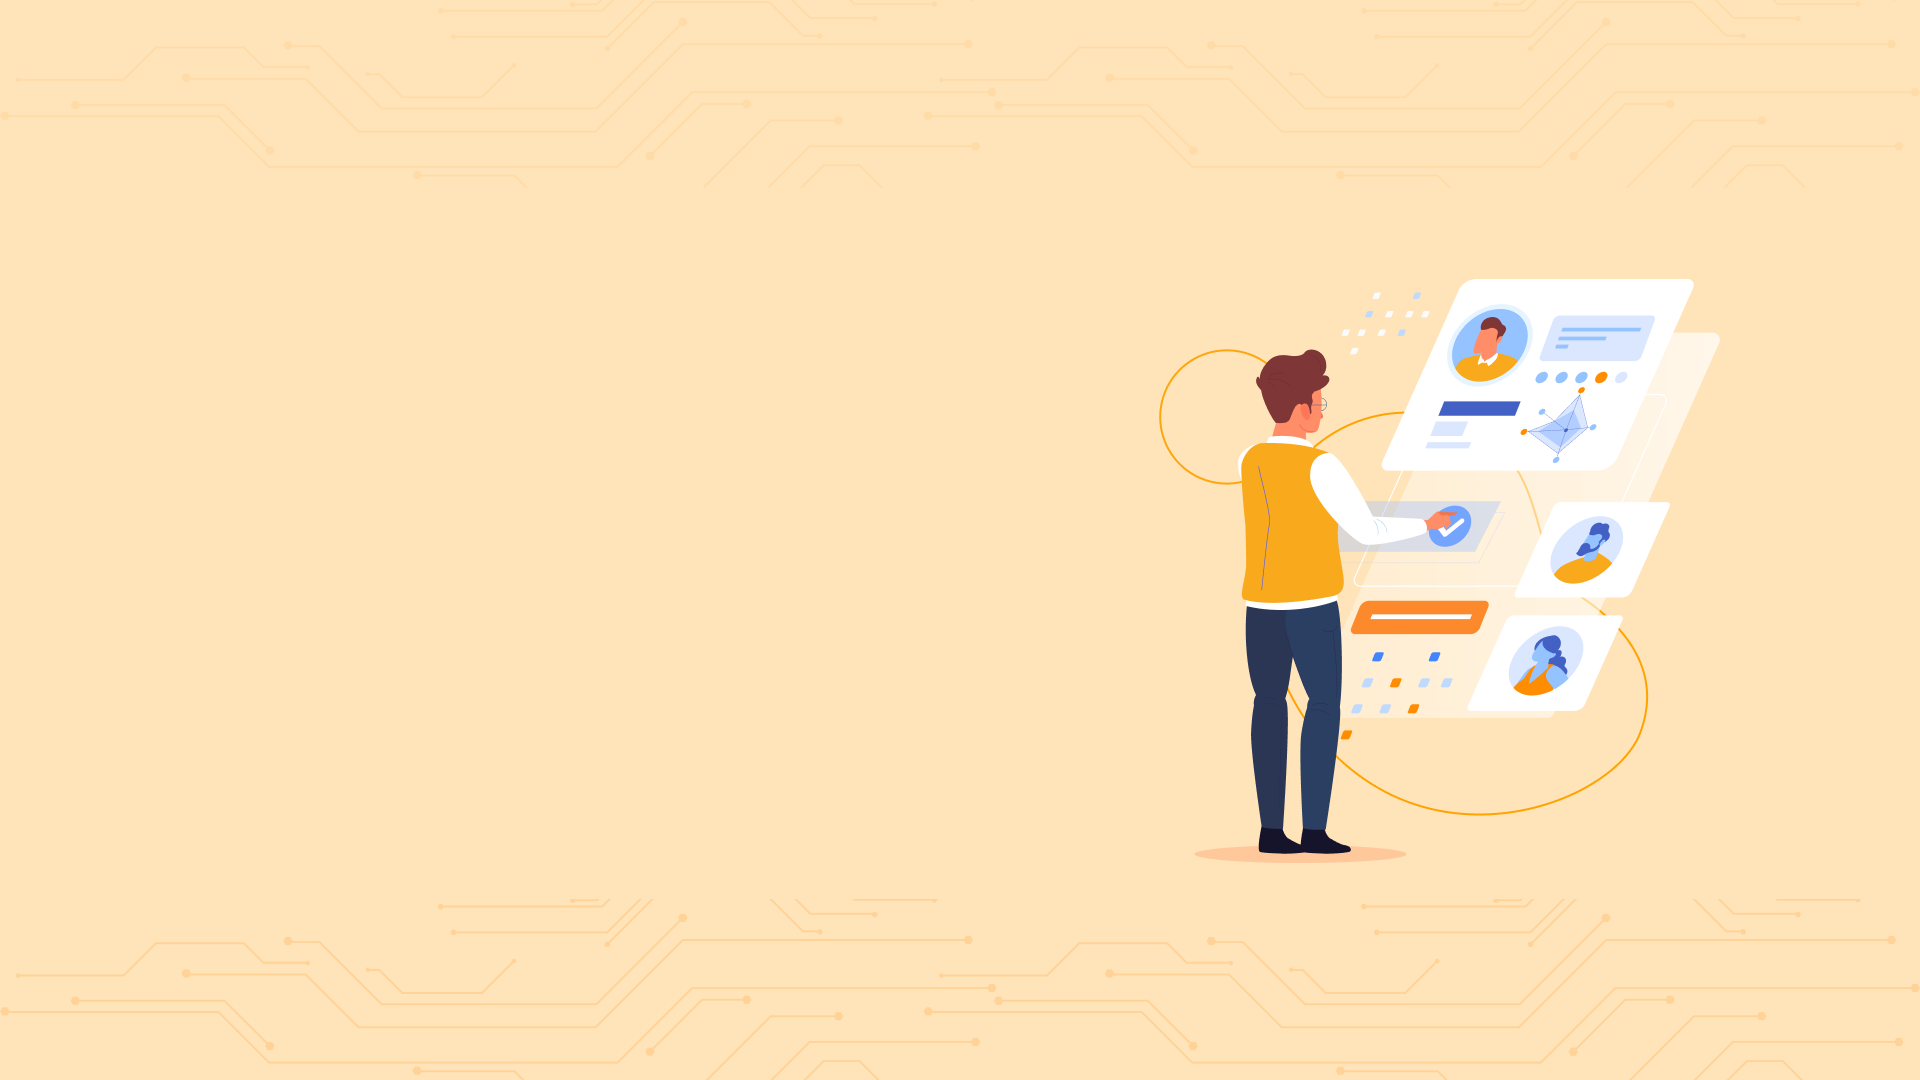
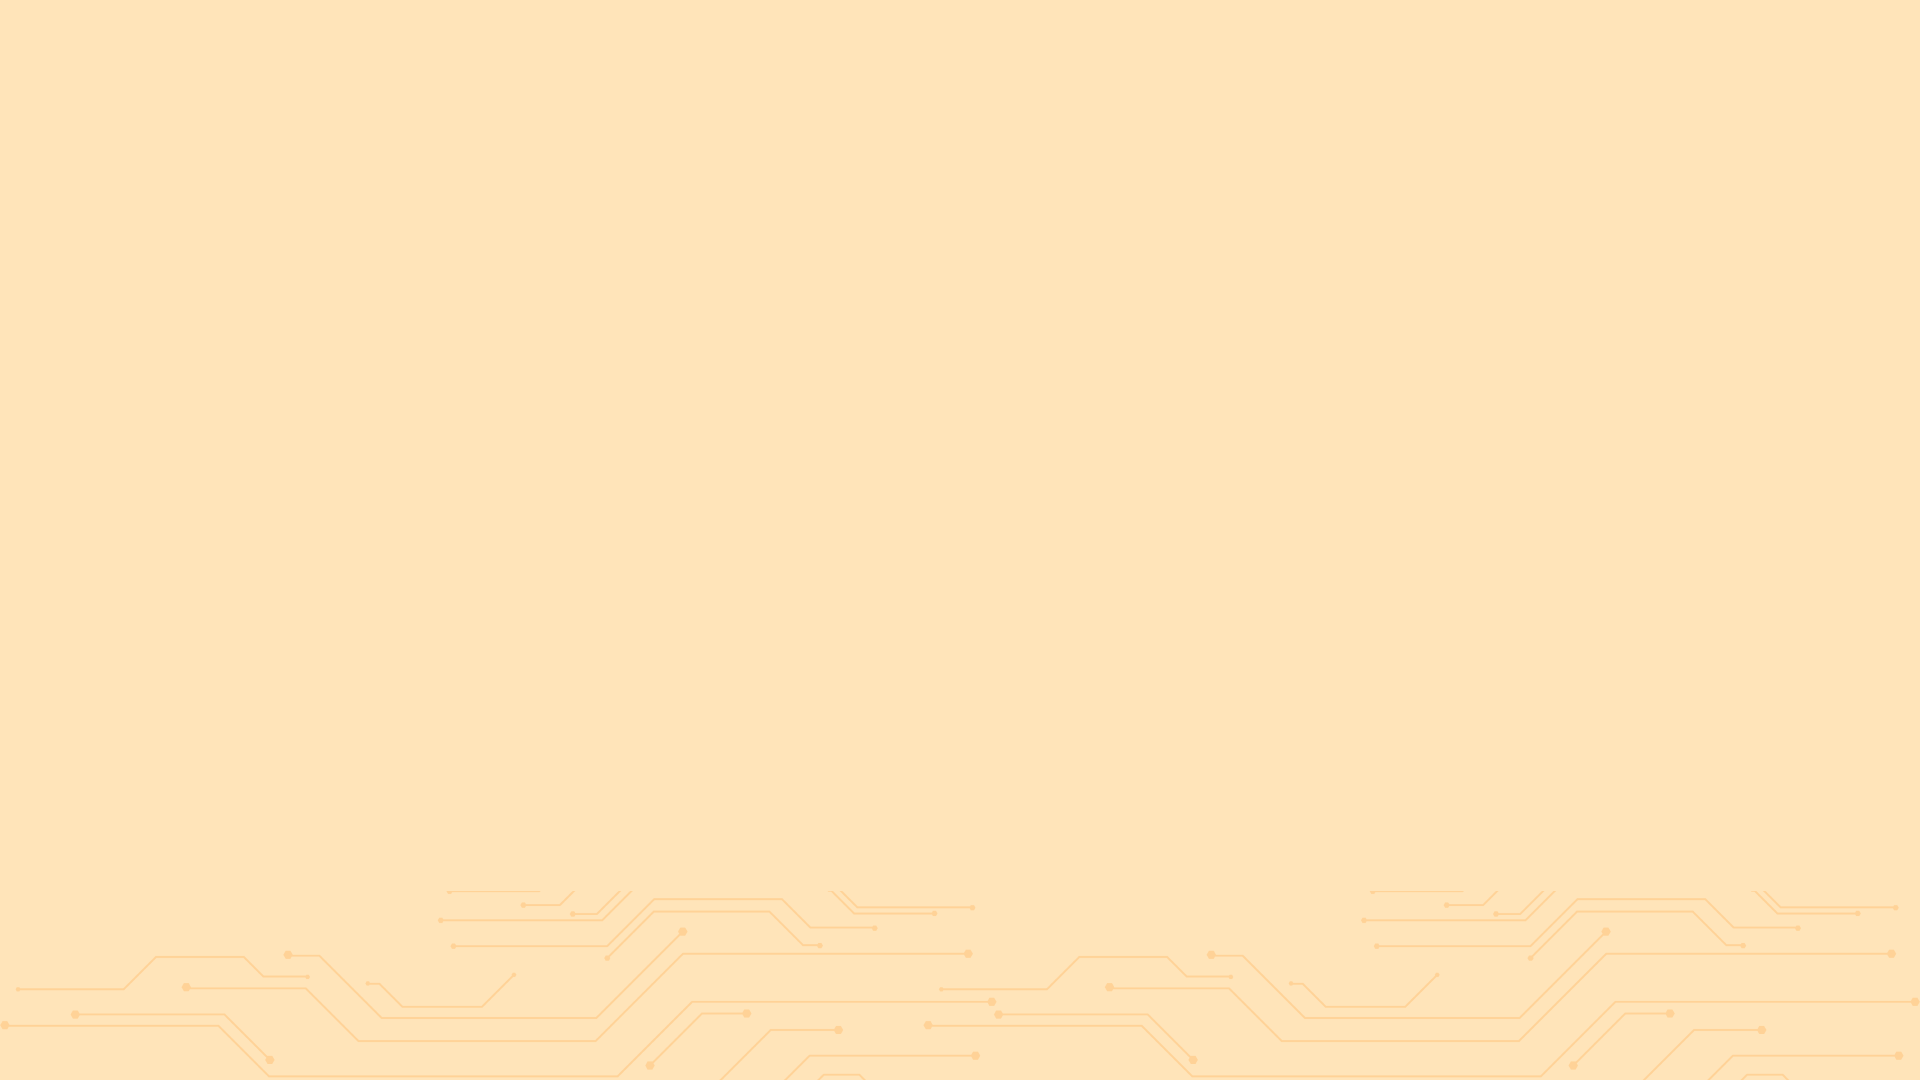
go

diff --git a/index.html b/index.html
@@ -15,7 +15,7 @@
   </head>
   <body>
     <header>
-      <div class="container-custom">
+      <div class="container">
         <div class="header-wrap">
           <div class="logo">
             <img src="./assets/img/logo.png" alt="" />
@@ -32,74 +32,86 @@
       </div>
     </header>
     <section id="hrm_body">
-      <div class="container-custom">
+      <div class="container">
         <div class="hrm-search">
           <input type="text" placeholder="Tìm kiếm ứng dụng" />
         </div>
-        <div class="hrm-module">
-          <div class="module-row">
-            <a href="">
-              <div class="module-box">
-                <img src="./assets/img/icon1.png" alt="" />
-                <div class="module-name">Hệ thống</div>
+        <div
+          style="display: flex; align-items: center; justify-content: center"
+          class="row"
+        >
+          <div class="col-lg-6">
+            <div class="content-left">
+              <div class="hrm-module">
+                <div class="module-row">
+                  <a href="">
+                    <div class="module-box">
+                      <img src="./assets/img/icon1.png" alt="" />
+                      <div class="module-name">Hệ thống</div>
+                    </div>
+                  </a>
+                  <a href="">
+                    <div class="module-box">
+                      <img src="./assets/img/icon2.png" alt="" />
+                      <div class="module-name">Thông tin nhân sự</div>
+                    </div>
+                  </a>
+                  <a href="">
+                    <div class="module-box">
+                      <img src="./assets/img/icon3.png" alt="" />
+                      <div class="module-name">Tiền lương</div>
+                    </div>
+                  </a>
+                  <a href="">
+                    <div class="module-box">
+                      <img src="./assets/img/icon4.png" alt="" />
+                      <div class="module-name">Nhân viên</div>
+                    </div>
+                  </a>
+                  <a href="">
+                    <div class="module-box">
+                      <img src="./assets/img/icon5.png" alt="" />
+                      <div class="module-name">Chấm công</div>
+                    </div>
+                  </a>
+                </div>
+                <div class="module-row">
+                  <a href="">
+                    <div class="module-box">
+                      <img src="./assets/img/icon6.png" alt="" />
+                      <div class="module-name">Hợp đồng</div>
+                    </div>
+                  </a>
+                  <a href="">
+                    <div class="module-box">
+                      <img src="./assets/img/icon7.png" alt="" />
+                      <div class="module-name">Bảo hiểm xã hội</div>
+                    </div>
+                  </a>
+                  <a href="">
+                    <div class="module-box">
+                      <img src="./assets/img/icon8.png" alt="" />
+                      <div class="module-name">Tuyển dụng</div>
+                    </div>
+                  </a>
+                  <a href="">
+                    <div class="module-box">
+                      <img src="./assets/img/icon9.png" alt="" />
+                      <div class="module-name">Đặt xe</div>
+                    </div>
+                  </a>
+                  <a href="">
+                    <div class="module-box">
+                      <img src="./assets/img/icon10.png" alt="" />
+                      <div class="module-name">Hướng dẫn</div>
+                    </div>
+                  </a>
+                </div>
               </div>
-            </a>
-            <a href="">
-              <div class="module-box">
-                <img src="./assets/img/icon2.png" alt="" />
-                <div class="module-name">Thông tin nhân sự</div>
-              </div>
-            </a>
-            <a href="">
-              <div class="module-box">
-                <img src="./assets/img/icon3.png" alt="" />
-                <div class="module-name">Tiền lương</div>
-              </div>
-            </a>
-            <a href="">
-              <div class="module-box">
-                <img src="./assets/img/icon4.png" alt="" />
-                <div class="module-name">Nhân viên</div>
-              </div>
-            </a>
-            <a href="">
-              <div class="module-box">
-                <img src="./assets/img/icon5.png" alt="" />
-                <div class="module-name">Chấm công</div>
-              </div>
-            </a>
+            </div>
           </div>
-          <div class="module-row">
-            <a href="">
-              <div class="module-box">
-                <img src="./assets/img/icon6.png" alt="" />
-                <div class="module-name">Hợp đồng</div>
-              </div>
-            </a>
-            <a href="">
-              <div class="module-box">
-                <img src="./assets/img/icon7.png" alt="" />
-                <div class="module-name">Bảo hiểm xã hội</div>
-              </div>
-            </a>
-            <a href="">
-              <div class="module-box">
-                <img src="./assets/img/icon8.png" alt="" />
-                <div class="module-name">Tuyển dụng</div>
-              </div>
-            </a>
-            <a href="">
-              <div class="module-box">
-                <img src="./assets/img/icon9.png" alt="" />
-                <div class="module-name">Đặt xe</div>
-              </div>
-            </a>
-            <a href="">
-              <div class="module-box">
-                <img src="./assets/img/icon10.png" alt="" />
-                <div class="module-name">Hướng dẫn</div>
-              </div>
-            </a>
+          <div class="col-lg-6 d-flex justify-content-center">
+            <img src="./assets/img/object-right.png" alt="" />
           </div>
         </div>
       </div>

diff --git a/assets/css/style.css b/assets/css/style.css
@@ -15,7 +15,7 @@ header {
   top: 0;
   left: 0;
   z-index: 999;
-  height: 74px;
+  height: 66px;
   background-color: #fff;
   width: 100%;
   display: flex;
@@ -35,7 +35,7 @@ header {
   align-items: center;
 }
 .container-custom {
-  padding: 0 120px;
+  padding: 0 200px;
   width: 100%;
 }
 #hrm_body {
@@ -47,7 +47,7 @@ header {
 .hrm-search {
   display: flex;
   width: 606px;
-
+  height: 48px;
   align-items: center;
   gap: 16px;
   border-radius: 40px;
@@ -88,8 +88,8 @@ header {
 .module-box {
   display: flex;
   padding: 24px 10px;
-  width: 145px;
-  height: 208px;
+  width: 126px;
+  height: 188px;
   flex-direction: column;
   align-items: center;
   gap: 16px;
@@ -97,7 +97,6 @@ header {
   border: 1px solid var(--Basic-3, #9ba3b1);
   background: #fff;
   color: var(--Secondary-Xanh, #2951a0);
-
 }
 .module-box:hover {
   border-radius: 24px;
@@ -108,7 +107,7 @@ header {
 .module-name {
   text-align: center;
   font-family: "Roboto", sans-serif;
-  font-size: 20px;
+  font-size: 16px;
   font-style: normal;
   font-weight: 700;
   line-height: 26px; /* 130% */
